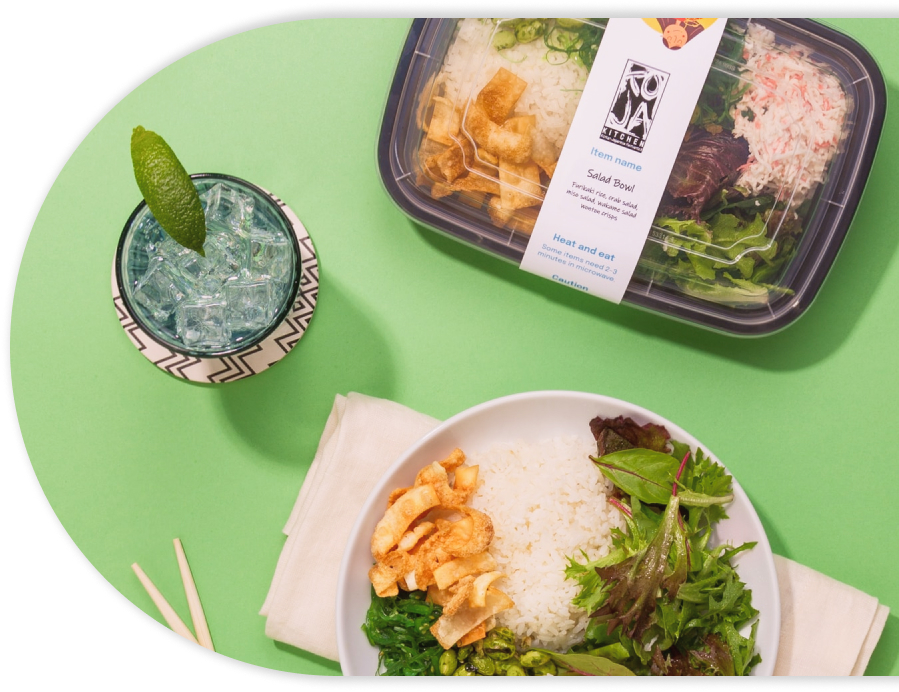
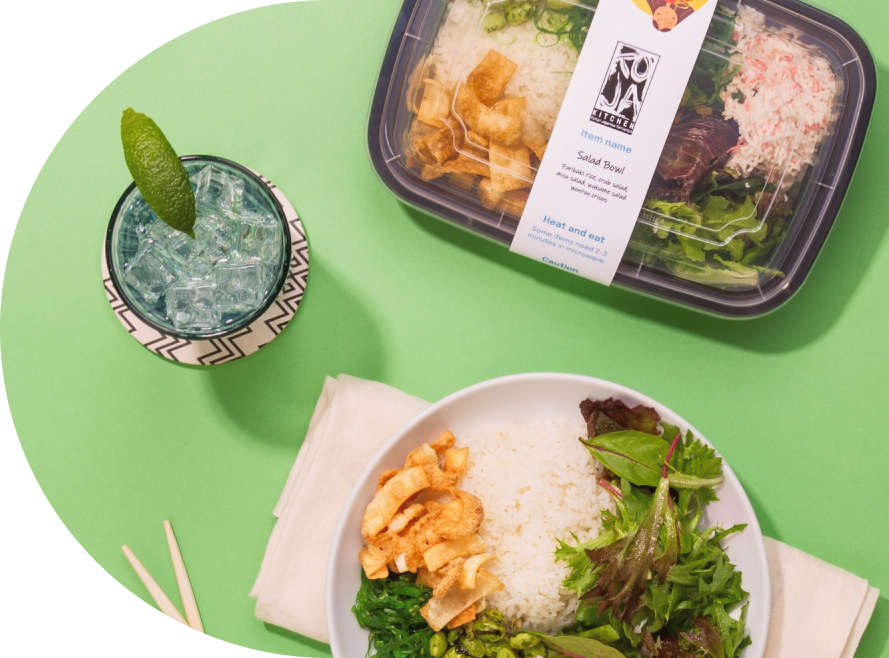
210824-2

diff --git a/index.html b/index.html
@@ -151,6 +151,7 @@
                     <span><strong>Click here!</strong></span>
                   </button>
                 </div> 
+                <!-- //description -->
               </div>
               <div class="swiper-slide slide3">
                   <picture>
@@ -277,13 +278,19 @@
             </div>
             <!-- //step3 -->
           </div>
+          <!-- //program -->
+          <div class="line">
+            <svg width="1254" height="1" viewBox="0 0 1254 1" fill="none" xmlns="http://www.w3.org/2000/svg">
+              <rect width="1254" height="1" fill="#C4C4C4"/>
+              </svg>              
+          </div>
         </div>
       </div>
       
     </section>
     <!-- //program -->
     
-    <section id="meal_box">
+    <section id="meal_box clearfix">
       <div class="contaier">
         <div class="meal_box">
           <div class="meal_description">
@@ -299,6 +306,7 @@
               <span><strong>도시락 정기배송 바로가기</strong></span>
             </button>
           </div>
+          <!-- //meal_description -->
           <div class="meal_img">
             <picture>
               <source media="(min-width: 800px)" srcset="img/banner_1@3x.jpg">
@@ -307,13 +315,43 @@
             </picture> 
           </div>
           <!-- //meal_img -->
+          <div class="line">
+            <svg width="1254" height="1" viewBox="0 0 1254 1" fill="none" xmlns="http://www.w3.org/2000/svg">
+              <rect width="1254" height="1" fill="#C4C4C4"/>
+            </svg>              
+          </div>
+          <!-- //line -->
         </div>
       </div> 
     </section>
     <!-- //meal_box -->
     
     <section id="campus">
-      
+      <div class="container">
+        <div class="row">
+          <div class="campus">
+            <div class="campus_description">
+              <h2>
+                <em class="sub_title">나를 찾아 떠나는 여정</em><br>
+                <strong class="title">필라테스 캠퍼스 5기를 모집합니다.<br></strong>
+              </h2>
+              <span>자격 요건</span>
+              <p class="desc">
+                지방의회의 조직·권한·의원선거와 지방자치단체의 장의 선임방법 기타 지방자치단체의 조직과 운영에 관한 사항은 법률로 정한다. 대통령은 국가의 독립·영토의 보전·국가의 계속성과 헌법을 수호할 책무를 진다.
+              </p>
+              <span>신청 방법</span>
+              <p class="desc">
+                교육의 자주성·전문성·정치적 중립성 및 대학의 자율성은 법률이 정하는 바에 의하여 보장된다. 모든 국민은 언론·출판의 자유와 집회·결사의 자유를 가진다.
+              </p>
+              <button class="button">
+                <span><strong>도시락 정기배송 바로가기</strong></span>
+              </button>
+            </div>
+            <!-- //meal_description -->
+            <!-- //description -->
+          </div>
+        </div>
+      </div>
     </section>
     <!-- //campus -->
     

diff --git a/css/style.css b/css/style.css
@@ -9,6 +9,7 @@
 /* 가운데 영역 */
 .container {width: 1440px; margin: 0 auto;}
 .row {margin: 0 93px;}
+.line {font-size: 0; text-align: center; padding: 50px 0;}
 
 /* decription copy */
 /* .description .title {font-size: 48px; font-weight: bold; color: #2c2620;}
@@ -77,7 +78,7 @@
 /* program */
 .program {display: flex; }
 .program .step {
-  padding: 50px 0;
+  margin-top: 50px;
   width: 33.3333%; height: 100%;
   /* background: #ccc; */
 }
@@ -96,7 +97,9 @@
 }
 
 /* meal_box */
-.meal_box {display: flex; align-items: center; padding: 30px 0 60px 0; }
+.meal_box {
+  position: relative; 
+}
 .meal_img{
   display: flex;
   justify-content: flex-end;
@@ -106,6 +109,8 @@
   height: 658px;
 }
 .meal_description {
+  position: absolute; top: 50%; left: 0;
+  transform: translateY(-50%);
   margin-left: 146px;
 }
 .meal_description .sub_title {
@@ -123,13 +128,12 @@
   height: 121px;
 }
 .meal_description .button {
-  width: 200px;
-  height: 60px;
-  flex-grow: 0;
+  width: 425px; height: 60px;
   border-radius: 30px;
   box-shadow: 0 1px 5px 0 rgba(0, 0, 0, 0.25);
-  border: solid 1px #2c2620;
-  background-color: rgba(255, 255, 255, 0.5);
+  background-color: #2c2620;
+  color: #fff;
+  font-size: 20px;
   margin-top: 50px;
 }
 
